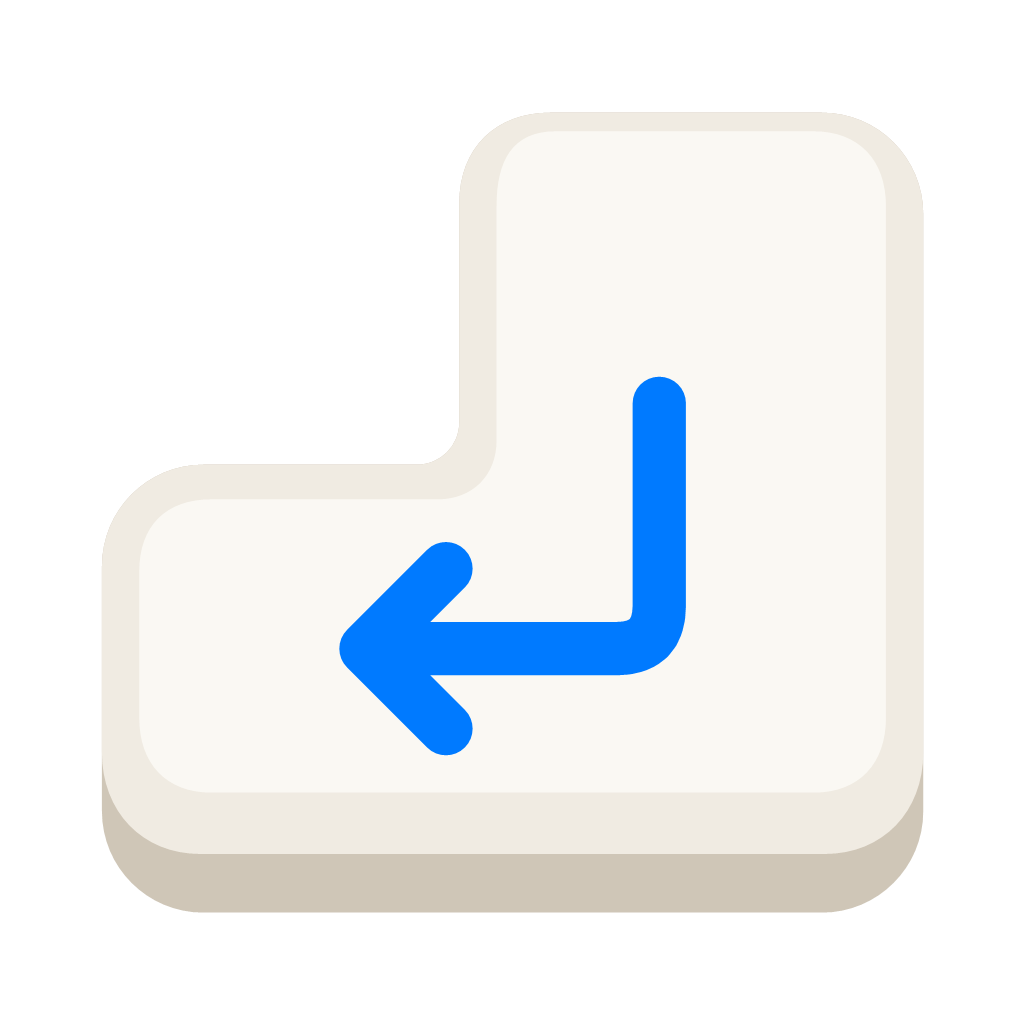
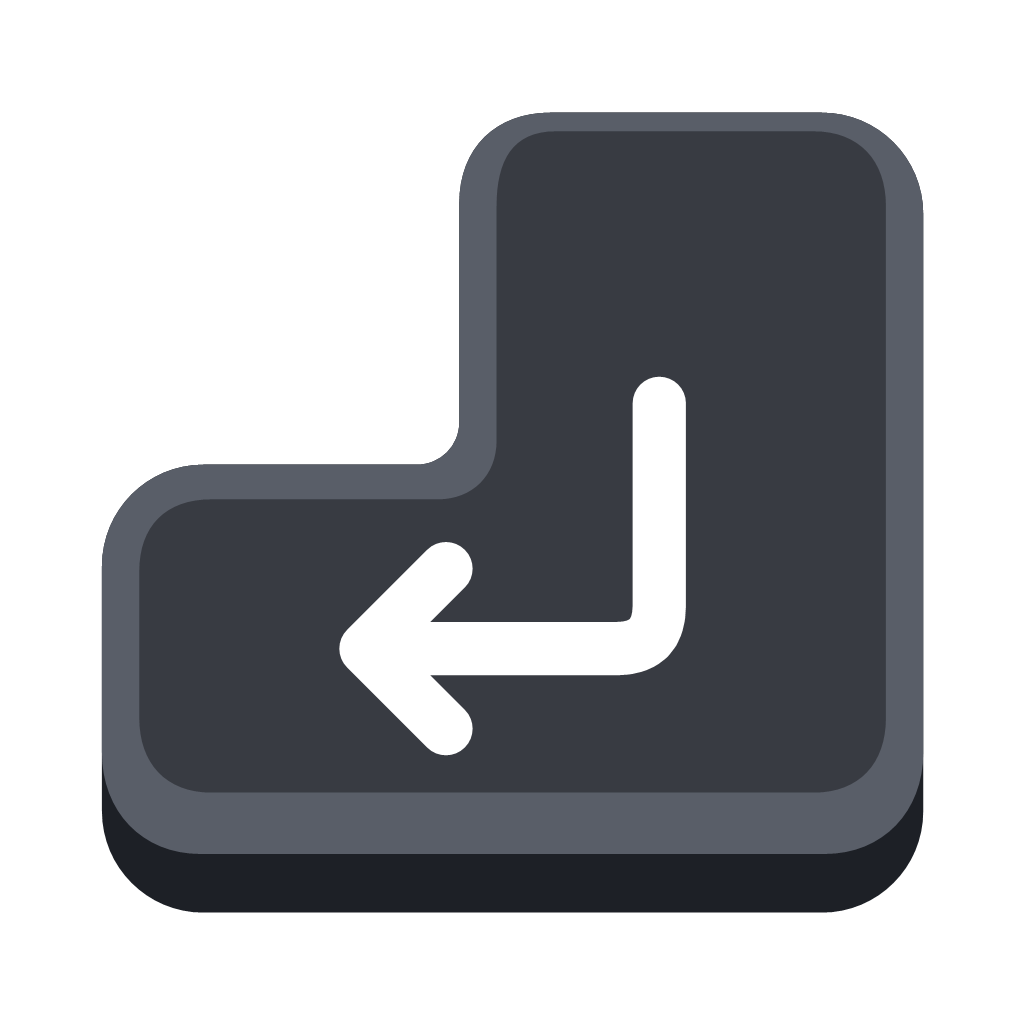
Use a layered ink-dark keycap with a white return arrow

diff --git a/src/IconArtwork.cs b/src/IconArtwork.cs
@@ -12,13 +12,13 @@ public static class IconArtwork {
             float scale=Math.Min(bounds.Width,bounds.Height)/384f;
             g.TranslateTransform(bounds.X+(bounds.Width-384*scale)/2,bounds.Y+(bounds.Height-384*scale)/2);
             g.ScaleTransform(scale,scale);g.SmoothingMode=SmoothingMode.AntiAlias;
-            using(var p=Outer(true)) using(var b=new SolidBrush(Color.FromArgb(207,198,183))) g.FillPath(b,p);
-            using(var p=Outer(false)) using(var b=new SolidBrush(Color.FromArgb(240,235,226))) g.FillPath(b,p);
-            using(var p=Face()) using(var b=new SolidBrush(Color.FromArgb(250,248,243))) g.FillPath(b,p);
+            using(var p=Outer(true)) using(var b=new SolidBrush(Color.FromArgb(29,32,38))) g.FillPath(b,p);
+            using(var p=Outer(false)) using(var b=new SolidBrush(Color.FromArgb(89,94,104))) g.FillPath(b,p);
+            using(var p=Face()) using(var b=new SolidBrush(Color.FromArgb(56,59,66))) g.FillPath(b,p);
             // Approved position: centered horizontally, then lowered by one stroke.
             g.TranslateTransform(-45,49);
             using(var p=new GraphicsPath())
-            using(var pen=new Pen(Color.FromArgb(0,122,255),20) {StartCap=LineCap.Round,EndCap=LineCap.Round,LineJoin=LineJoin.Round}) {
+            using(var pen=new Pen(Color.White,20) {StartCap=LineCap.Round,EndCap=LineCap.Round,LineJoin=LineJoin.Round}) {
                 p.AddLine(292,102,292,178);
                 // Quadratic Q292 194 276 194 expressed as a cubic Bezier.
                 p.AddBezier(292,178,292,188.666667f,286.666667f,194,276,194);

diff --git a/src/AssemblyInfo.cs b/src/AssemblyInfo.cs
@@ -4,5 +4,5 @@ using System.Runtime.Versioning;
 [assembly: AssemblyTitle("iEnter")]
 [assembly: AssemblyDescription("Automatic Enter after Typeless input on Windows")]
 [assembly: AssemblyProduct("iEnter")]
-[assembly: AssemblyVersion("1.3.1.0")]
-[assembly: AssemblyFileVersion("1.3.1.0")]
+[assembly: AssemblyVersion("1.3.2.0")]
+[assembly: AssemblyFileVersion("1.3.2.0")]

diff --git a/README.md b/README.md
@@ -22,7 +22,7 @@ iEnter is an independent community project. It is not affiliated with Typeless a
 
 Previously named Auto Enter. When upgrading, point existing shortcuts and startup entries to `iEnter.exe`.
 
-1. Download `iEnter-v1.3.1-Windows-x64.zip` from [Releases](https://github.com/ZhanchiWang/iEnter/releases) and extract it into a permanent folder. Keep `iEnter.exe.config` beside `iEnter.exe`; it enables sharp per-monitor DPI rendering.
+1. Download `iEnter-v1.3.2-Windows-x64.zip` from [Releases](https://github.com/ZhanchiWang/iEnter/releases) and extract it into a permanent folder. Keep `iEnter.exe.config` beside `iEnter.exe`; it enables sharp per-monitor DPI rendering.
 2. Start Typeless, then open `iEnter.exe`.
 3. Turn on the switch and choose **Every dictation** or **With an ending word**.
 4. Try a dictation in the built-in test box. The **Enter received** counter should increase.
@@ -99,7 +99,7 @@ Quit an already-running iEnter instance before integration testing, and leave th
 
 ## Credits
 
-The [editable SVG icon](assets/ienter.svg) is an ivory L-shaped keycap with a rounded blue return arrow. `src/IconArtwork.cs` supplies the same vector geometry to the app header and icon exporter. The Windows icon includes ten native sizes from 16 to 256 px, and the PNG preview is 1024 px.
+The [editable SVG icon](assets/ienter.svg) is an ink-dark L-shaped keycap with a gray bevel and rounded white return arrow. `src/IconArtwork.cs` supplies the same vector geometry to the app header and icon exporter. The Windows icon includes ten native sizes from 16 to 256 px, and the PNG preview is 1024 px.
 
 Inspired by [ConstantineLiu/typeless-autoenter](https://github.com/ConstantineLiu/typeless-autoenter) for macOS. This Windows implementation is independently written; its input-source detection differs because Windows low-level keyboard events do not directly expose the source PID.
 

diff --git a/README.zh-CN.md b/README.zh-CN.md
@@ -50,7 +50,7 @@ Windows 托盘小工具：Typeless 粘贴语音识别结果后，自动按一次
 
 ## 编译和测试
 
-1.3.1 使用米白色 L 形键帽与蓝色圆角回车箭头。[SVG 矢量文件](assets/ienter.svg)保留可编辑原稿；界面和图标导出共用 `src/IconArtwork.cs` 中的矢量路径，系统图标包含 16–256 px 的十档尺寸，并支持高 DPI 显示。
+1.3.2 使用墨色 L 形键帽、灰色倒角与白色圆角回车箭头，增强小图标的辨识度。[SVG 矢量文件](assets/ienter.svg)保留可编辑原稿；界面和图标导出共用 `src/IconArtwork.cs` 中的矢量路径，系统图标包含 16–256 px 的十档尺寸，并支持高 DPI 显示。
 
 需要 Windows x64 和 .NET Framework 4.x 编译器。当前机器已经具备；项目没有 NuGet 或网络运行依赖。
 

diff --git a/CHANGELOG.md b/CHANGELOG.md
@@ -1,5 +1,11 @@
 # Changelog
 
+## 1.3.2 — 2026-11-17
+
+- Use an ink-dark keycap, gray bevel, and white return arrow for stronger small-icon contrast.
+- Preserve the approved L-shaped geometry, arrow weight, and lowered position.
+- Update app, tray, executable, and exported icons together.
+
 ## 1.3.1 — 2026-11-17
 
 - Replace the app icon with the approved ivory L-shaped keycap and rounded blue return arrow.
